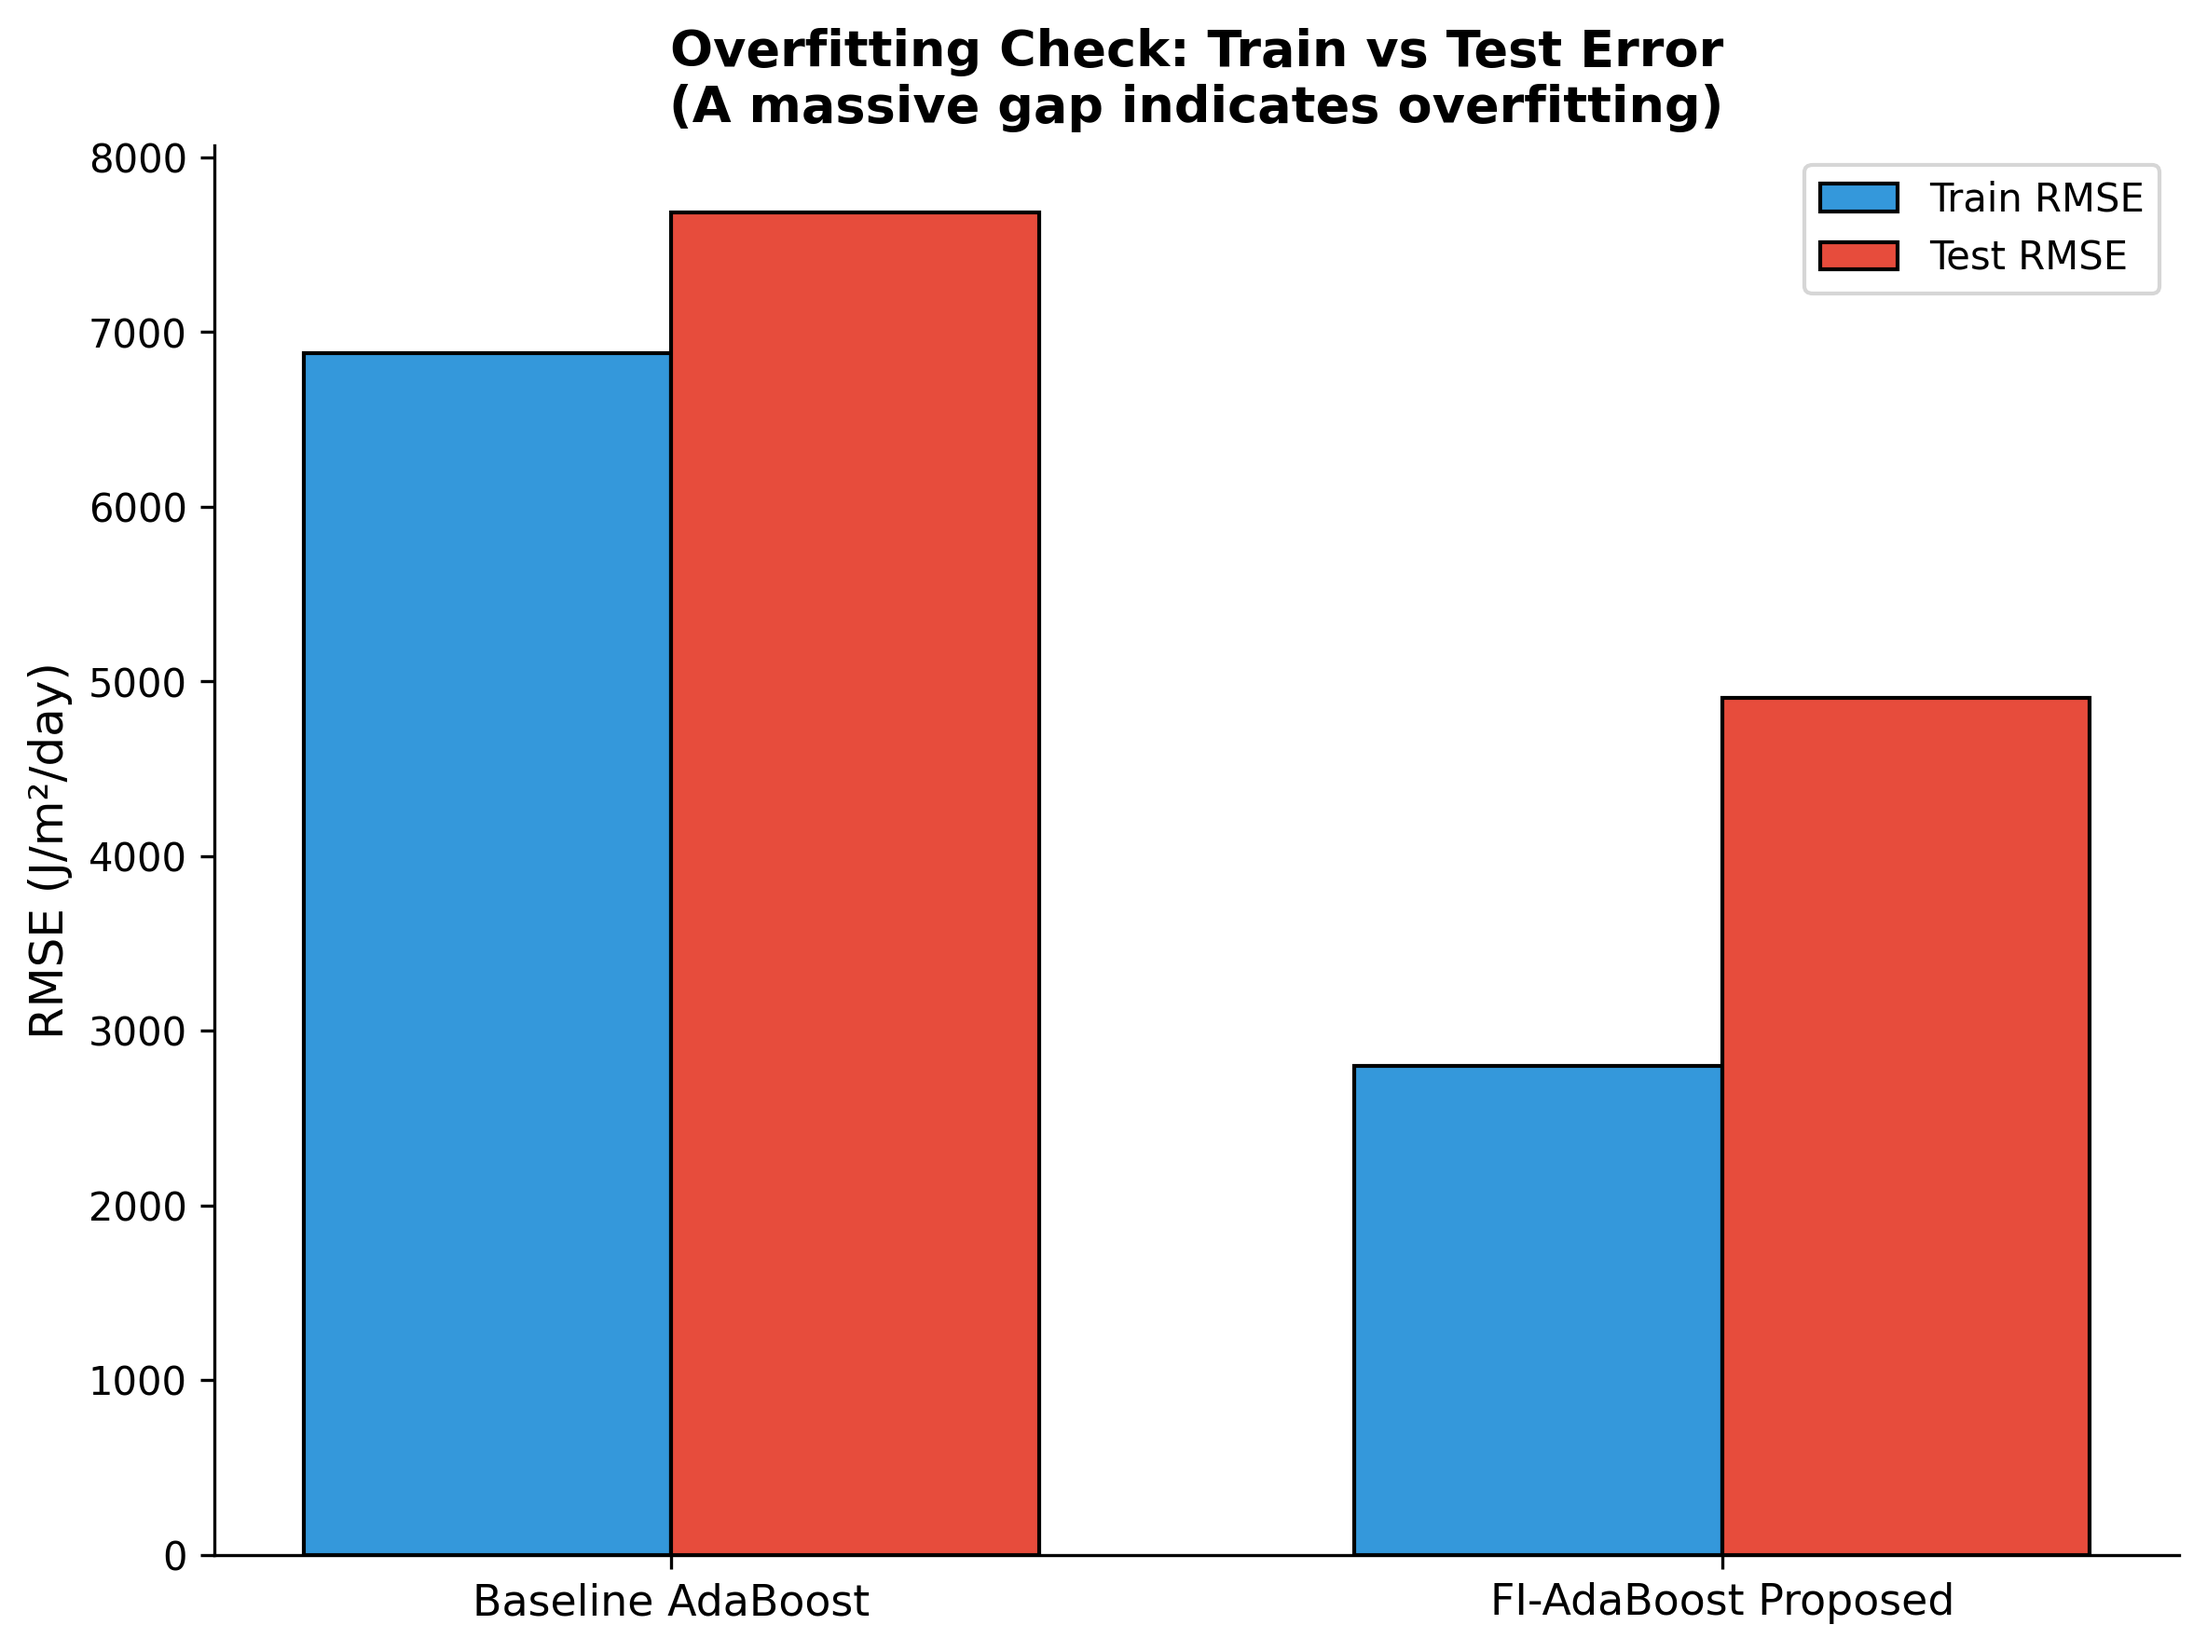
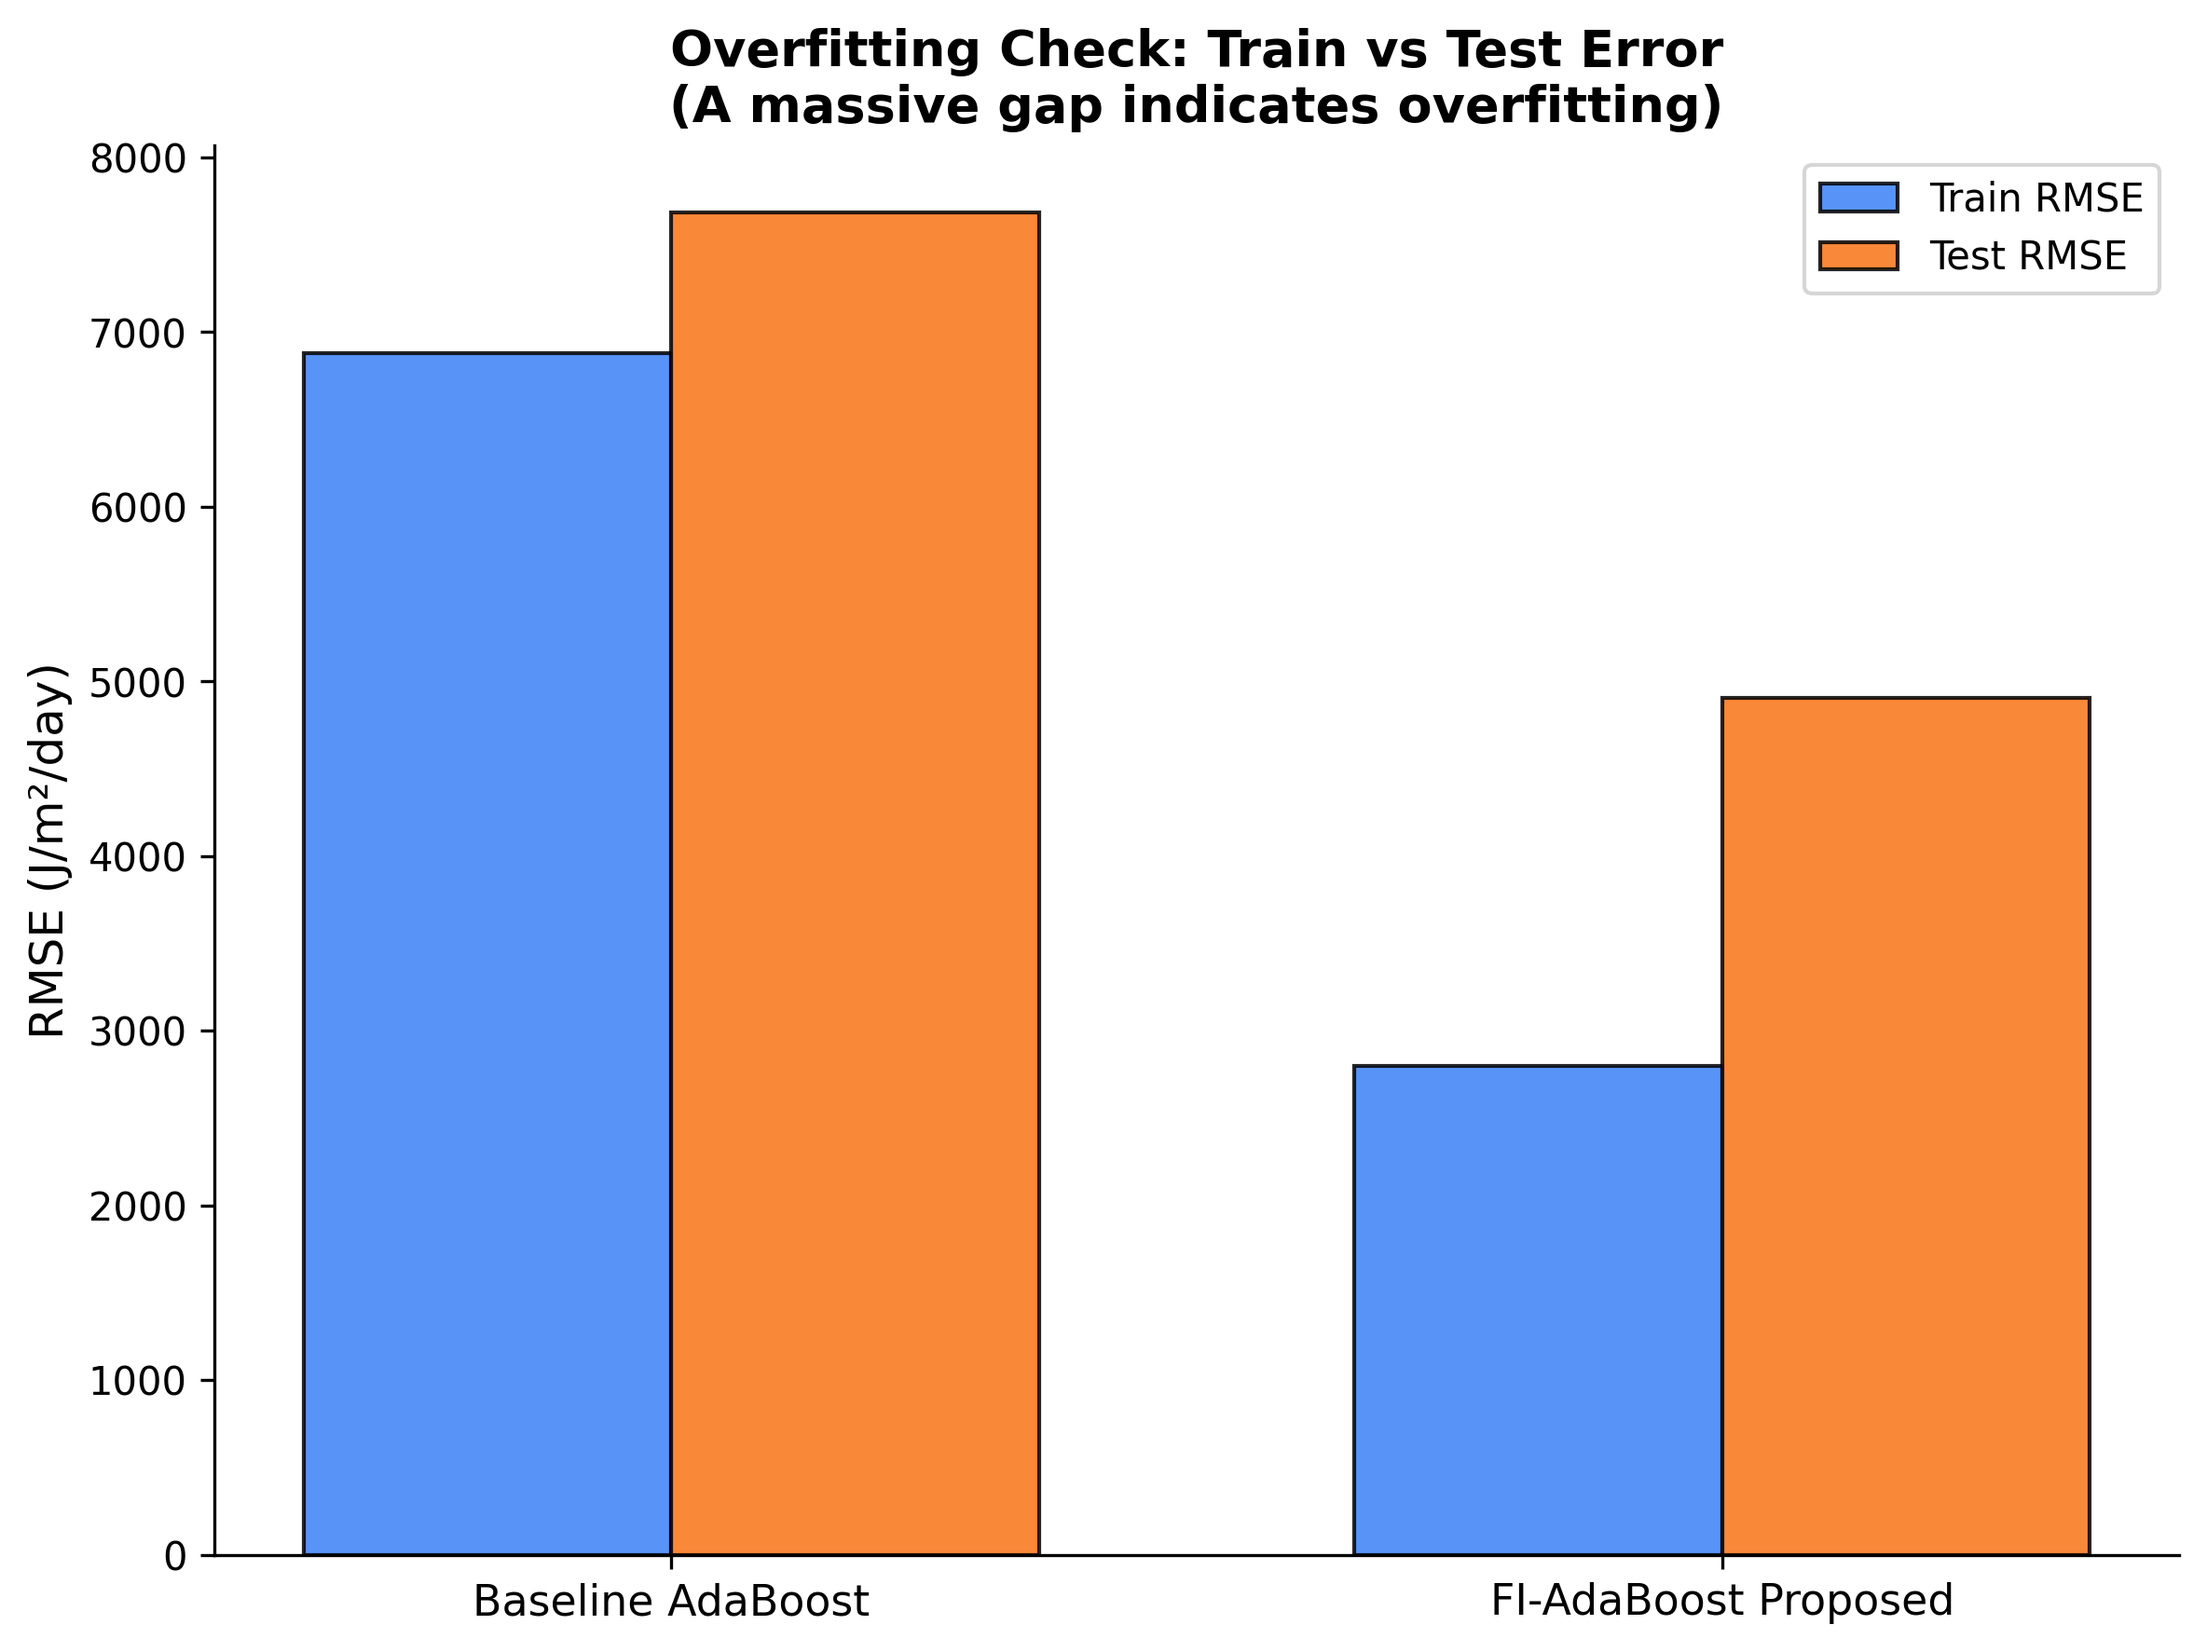
push

diff --git a/FIAdaBoost/src/model_training.py b/FIAdaBoost/src/model_training.py
@@ -1001,8 +1001,8 @@ def plot_overfit_check(ada_train_m, ada_test_m, fi_train_m, fi_test_m):
     width = 0.35  # bar width; two bars per model side by side
 
     fig, ax = plt.subplots(figsize=(8, 6))
-    rects1 = ax.bar(x - width / 2, train_rmse, width, label="Train RMSE", color="#3498DB", edgecolor="black")
-    rects2 = ax.bar(x + width / 2, test_rmse,  width, label="Test RMSE",  color="#E74C3C", edgecolor="black")
+    rects1 = ax.bar(x - width / 2, train_rmse, width, label="Train RMSE", color=C_ADA, edgecolor="black", alpha=0.85)
+    rects2 = ax.bar(x + width / 2, test_rmse,  width, label="Test RMSE",  color=C_FI,  edgecolor="black", alpha=0.85)
 
     ax.set_ylabel("RMSE (J/m²/day)", fontsize=12)
     ax.set_title("Overfitting Check: Train vs Test Error\n(A massive gap indicates overfitting)",
